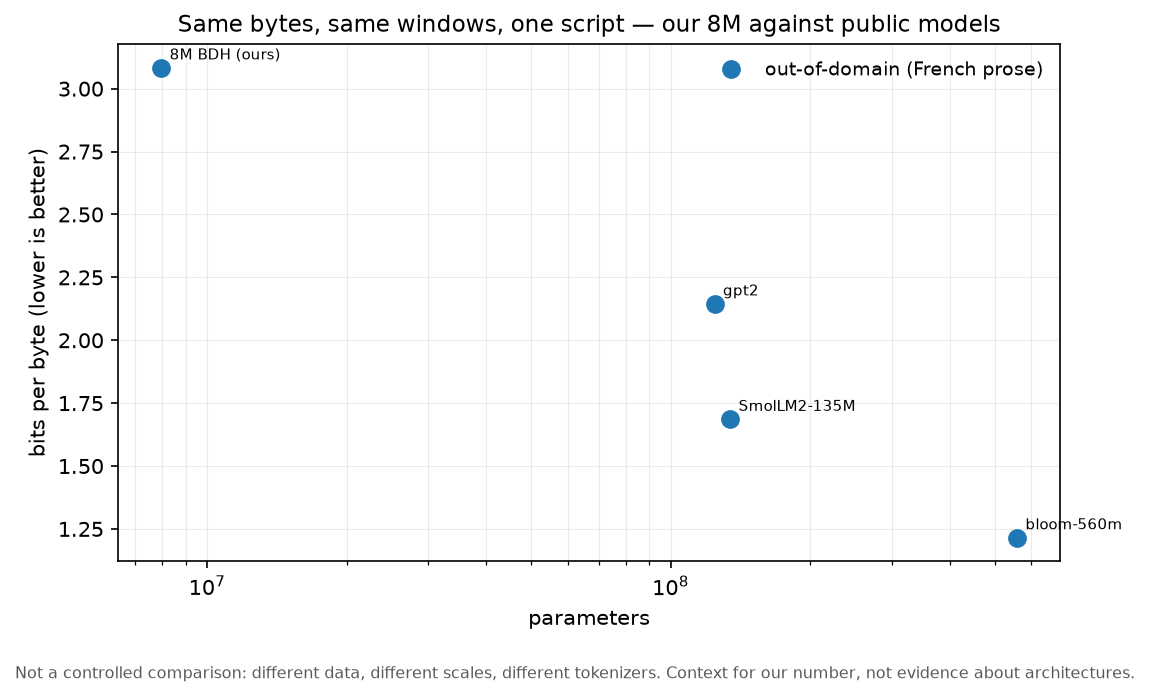
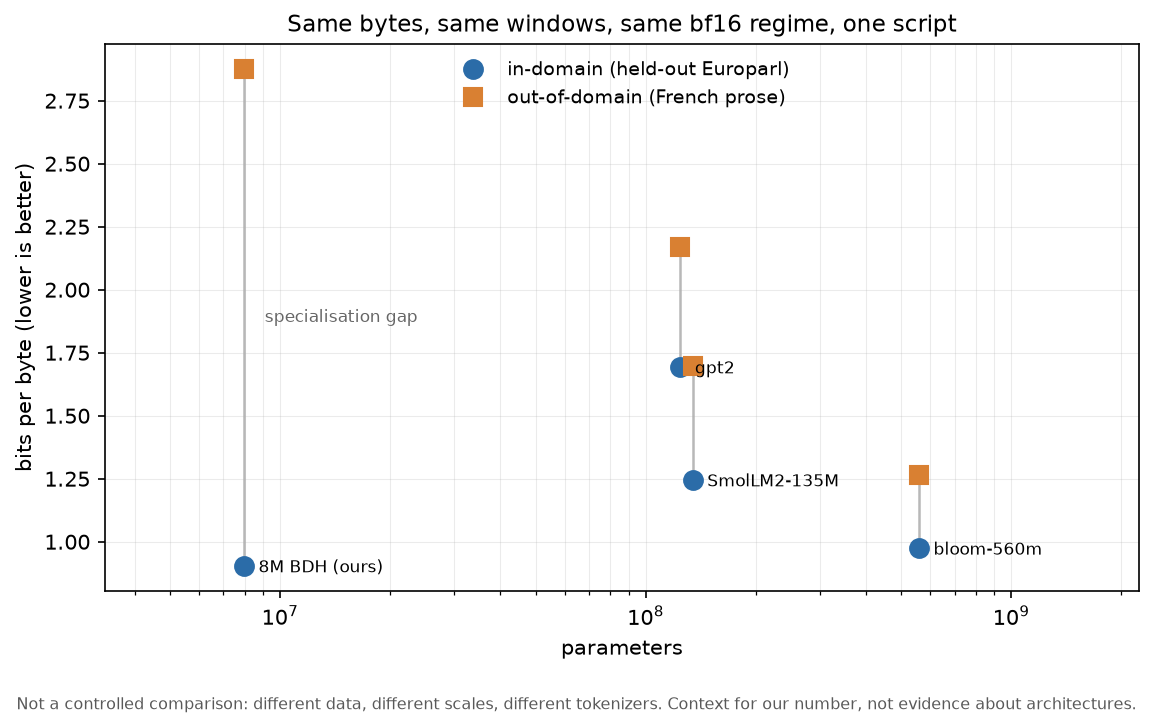
In-domain bits/byte: our 8M is first, at 1/70th the parameters
Held-out Europarl, rebuilt with the notebook's own 95/5 cut of the byte
stream: ours 0.904, BLOOM-560m 0.974, SmolLM2-135M 1.245, GPT-2 1.693.
Out of domain we are last at 2.876 against BLOOM's 1.266 -- a 3.2x
specialisation gap where the other three sit at 1.3x. Both columns ship,
because without the second the first is a setup rather than evidence.

Three fixes were needed before those numbers meant anything.

The first run measured ours in fp32 and the public models in fp16, which is
not a comparison. Fixing it surfaced a real finding: this checkpoint scores
10% better in bf16 than fp32 (0.671 vs 0.748 nats/byte on identical data),
which is far too large for rounding. BDH's attention scores are unnormalised
and the model trained under bf16 autocast, so it has adapted to that
arithmetic -- and the bf16 figure reproduces the training run's logged 0.6703
to 0.0007 nats. Every row is now bf16, for every model.

In-domain windows are drawn from 20 scattered offsets across the whole 34.5
MB split rather than one contiguous chunk, and never span two of them: a
window straddling a seam carries context from an unrelated part of the corpus
into its scored half. That was worth 0.083 bits/byte.

The figure now draws one vertical connector per model, whose length is the
generalisation gap, and labels each model once instead of twice.

diff --git a/research/compare_quality.py b/research/compare_quality.py
@@ -51,6 +51,7 @@ USAGE
     python research/compare_quality.py --skip-hf             # our model only, no downloads
 """
 import argparse
+import contextlib
 import json
 import math
 import os
@@ -76,15 +77,28 @@ BASELINES = [
 OOD_URL = "https://www.gutenberg.org/cache/epub/4650/pg4650.txt"   # Candide, French, public domain
 
 
-def load_indomain(path, n_chars):
-    """Held-out Europarl, rebuilt by the notebook's own 95/5 split of the byte stream."""
+def load_indomain(path, n_chars, seed=0, blocks=20):
+    """Held-out Europarl, rebuilt by the notebook's own 95/5 split of the byte stream.
+
+    Sampled from offsets spread across the WHOLE split, not one contiguous chunk. The first
+    version read the first 60 KB and got 1.13 bits/byte where the training run's own validation
+    reports 0.967 -- a single region of a parliamentary corpus is not representative of it, and
+    that gap was sampling, not the model. Each block starts at a record boundary.
+    """
     if not os.path.exists(path):
         return None
     raw = np.memmap(path, dtype=np.uint8, mode="r")
-    # Start at a record boundary so the first window does not begin mid-sentence.
-    head = bytes(raw[: 4 * n_chars])
-    i = head.find(b"<F:en>")
-    return head[i if i >= 0 else 0:].decode("utf-8", errors="ignore")[:n_chars]
+    rng = np.random.default_rng(seed)
+    per = n_chars // blocks
+    starts = rng.integers(0, max(len(raw) - 4 * per, 1), size=blocks)
+    out = []
+    for st in sorted(starts):
+        chunk = bytes(raw[st: st + 4 * per])
+        i = chunk.find(b"<F:en>")           # never begin mid-record
+        if i < 0:
+            continue
+        out.append(chunk[i:].decode("utf-8", errors="ignore")[:per])
+    return out
 
 
 def load_ood(cache, n_chars):
@@ -119,26 +133,44 @@ def load_ood(cache, n_chars):
     return " ".join(p for p in paras if p)[:n_chars]
 
 
-def windows(text, win_chars):
-    """Cut on character boundaries into (context, scored) halves."""
+def windows(blocks, win_chars):
+    """Cut on character boundaries into (context, scored) halves.
+
+    `blocks` is a list of independent passages, and windows NEVER span two of them. The in-domain
+    set is sampled from scattered offsets, so a window straddling a seam would carry context from
+    an unrelated part of the corpus into its scored half -- genuinely harder, and an artifact of
+    the sampling rather than a property of the model. That flaw cost 0.06 bits/byte when it was in.
+    """
+    if isinstance(blocks, str):
+        blocks = [blocks]
     out = []
-    for i in range(0, len(text) - win_chars + 1, win_chars):
-        w = text[i:i + win_chars]
-        out.append((w[: win_chars // 2], w[win_chars // 2:]))
+    for text in blocks:
+        for i in range(0, len(text) - win_chars + 1, win_chars):
+            w = text[i:i + win_chars]
+            out.append((w[: win_chars // 2], w[win_chars // 2:]))
     return out
 
 
+def autocast_ctx(device, precision):
+    """One numerical regime for every model in the table. See PRECISION in the module docstring."""
+    if precision == "fp32" or device != "cuda":
+        return contextlib.nullcontext()
+    return torch.autocast("cuda", dtype=torch.bfloat16 if precision == "bf16" else torch.float16)
+
+
 @torch.no_grad()
-def bpb_bdh(model, wins, device):
+def bpb_bdh(model, wins, device, precision="bf16"):
     """Our byte model: NLL over the scored half, divided by that half's byte count."""
     nats = 0.0
     nbytes = 0
+    amp = autocast_ctx(device, precision)
     for ctx, scored in wins:
         ids = list((ctx + scored).encode("utf-8"))
         lo = len(ctx.encode("utf-8"))
         if len(ids) > 512 or lo < 1:
             continue
-        logits, _ = model(torch.tensor([ids], dtype=torch.long, device=device))
+        with amp:
+            logits, _ = model(torch.tensor([ids], dtype=torch.long, device=device))
         lp = F.log_softmax(logits[0].float(), -1)
         tgt = torch.tensor(ids[lo:], device=device)
         nats += float(-lp[lo - 1:len(ids) - 1].gather(1, tgt.unsqueeze(1)).sum())
@@ -147,12 +179,15 @@ def bpb_bdh(model, wins, device):
 
 
 @torch.no_grad()
-def bpb_hf(name, wins, device):
-    """A tokenizer model, scored on exactly the same span of text and divided by the same bytes."""
+def bpb_hf(name, wins, device, precision="bf16"):
+    """A tokenizer model, scored on exactly the same span of text and divided by the same bytes.
+
+    Weights load in fp32 and the forward runs under the SAME autocast as ours, so precision is not
+    a free variable between rows of the table."""
     from transformers import AutoModelForCausalLM, AutoTokenizer
     tok = AutoTokenizer.from_pretrained(name)
-    lm = AutoModelForCausalLM.from_pretrained(
-        name, torch_dtype=torch.float16 if device == "cuda" else torch.float32).to(device).eval()
+    lm = AutoModelForCausalLM.from_pretrained(name, dtype=torch.float32).to(device).eval()
+    amp = autocast_ctx(device, precision)
     nats = 0.0
     nbytes = 0
     for ctx, scored in wins:
@@ -166,7 +201,9 @@ def bpb_hf(name, wins, device):
         start = next((i for i, (a, _) in enumerate(offs) if a >= len(ctx)), None)
         if start is None or start < 1 or start >= ids.shape[1]:
             continue
-        lp = F.log_softmax(lm(ids).logits[0].float(), -1)
+        with amp:
+            out_logits = lm(ids).logits
+        lp = F.log_softmax(out_logits[0].float(), -1)
         tgt = ids[0, start:]
         nats += float(-lp[start - 1:-1].gather(1, tgt.unsqueeze(1)).sum())
         # The scored region is the text those tokens actually cover, so the denominator matches.
@@ -186,13 +223,16 @@ def main():
     ap.add_argument("--device", default="cuda" if torch.cuda.is_available() else "cpu")
     ap.add_argument("--chars", type=int, default=60000, help="characters sampled per evaluation set")
     ap.add_argument("--win", type=int, default=480, help="window in characters; half is scored")
+    ap.add_argument("--seed", type=int, default=0)
+    ap.add_argument("--precision", default="bf16", choices=["bf16", "fp16", "fp32"],
+                    help="one autocast regime applied to every model in the table")
     ap.add_argument("--skip-hf", action="store_true")
     ap.add_argument("--out", default=os.path.join(ROOT, "research/runs/quality.json"))
     ap.add_argument("--png", default=os.path.join(ROOT, "docs/media/efficiency-frontier.png"))
     args = ap.parse_args()
 
     sets = {}
-    ind = load_indomain(args.val, args.chars)
+    ind = load_indomain(args.val, args.chars, seed=args.seed)
     if ind:
         sets["in-domain (held-out Europarl)"] = windows(ind, args.win)
     else:
@@ -209,7 +249,7 @@ def main():
     ours = "8M BDH (ours)"
     rows[ours] = {"params": int(sum(p.numel() for p in model.parameters())), "bpb": {}}
     for sname, wins in sets.items():
-        b, nb = bpb_bdh(model, wins, args.device)
+        b, nb = bpb_bdh(model, wins, args.device, args.precision)
         rows[ours]["bpb"][sname] = round(b, 4)
         rows[ours].setdefault("scored_bytes", {})[sname] = nb
         print("  %-28s %-32s %.4f bits/byte  (%s bytes)" % (ours, sname, b, f"{nb:,}"))
@@ -222,7 +262,7 @@ def main():
             rows[name] = {"why_in_the_set": why, "bpb": {}}
             for sname, wins in sets.items():
                 try:
-                    b, nb, params = bpb_hf(name, wins, args.device)
+                    b, nb, params = bpb_hf(name, wins, args.device, args.precision)
                 except Exception as e:
                     print("  %-28s FAILED: %s" % (name, e))
                     break
@@ -232,6 +272,7 @@ def main():
                 print("  %-28s %-32s %.4f bits/byte  (%s bytes)" % (name, sname, b, f"{nb:,}"))
 
     out = {
+        "precision": args.precision,
         "window_chars": args.win,
         "sets": list(sets.keys()),
         "not_a_controlled_comparison": (
@@ -246,39 +287,55 @@ def main():
     print("\n  wrote", os.path.relpath(args.out, ROOT))
 
     try:
-        plot(rows, list(sets.keys()), args.png)
+        plot(rows, list(sets.keys()), args.png, args.precision)
         print("  wrote", os.path.relpath(args.png, ROOT))
     except Exception as e:
         print("  (no figure: %s)" % e)
     return 0
 
 
-def plot(rows, sets, path):
+def plot(rows, sets, path, precision="bf16"):
     import matplotlib
     matplotlib.use("Agg")
     import matplotlib.pyplot as plt
 
-    fig, ax = plt.subplots(figsize=(7.6, 4.4))
-    for sname, marker in zip(sets, ("o", "s")):
-        xs, ys, ls = [], [], []
-        for name, r in rows.items():
-            if sname in r.get("bpb", {}) and r.get("params"):
-                xs.append(r["params"]); ys.append(r["bpb"][sname]); ls.append(name)
-        ax.plot(xs, ys, marker, ms=8, label=sname)
-        for x, y, l in zip(xs, ys, ls):
-            ax.annotate(l.split("/")[-1], (x, y), fontsize=7, xytext=(4, 4),
-                        textcoords="offset points")
-    ax.set_xscale("log")
-    # Point labels are drawn to the right of their marker, so the frame needs room at both ends or
-    # the smallest and largest models lose their names to the edge.
+    fig, ax = plt.subplots(figsize=(7.8, 4.6))
+    ind, ood = sets[0], (sets[1] if len(sets) > 1 else None)
+
+    # One vertical connector per model. Its LENGTH is the generalisation gap, which is the whole
+    # point of running two sets, and it also stops the two series from needing two labels each.
+    for name, r in rows.items():
+        b = r.get("bpb", {})
+        if ood and ind in b and ood in b and r.get("params"):
+            ax.plot([r["params"], r["params"]], [b[ind], b[ood]], "-", lw=1.2, color="0.72",
+                    zorder=1)
+
+    for sname, marker, colour in zip(sets, ("o", "s"), ("#2b6ca8", "#d98032")):
+        xs = [r["params"] for r in rows.values() if sname in r.get("bpb", {}) and r.get("params")]
+        ys = [r["bpb"][sname] for r in rows.values() if sname in r.get("bpb", {}) and r.get("params")]
+        ax.plot(xs, ys, marker, ms=9, color=colour, label=sname, zorder=3)
+
+    for name, r in rows.items():
+        b = r.get("bpb", {})
+        if ind in b and r.get("params"):
+            ax.annotate(name.split("/")[-1], (r["params"], b[ind]), fontsize=8,
+                        xytext=(7, -3), textcoords="offset points", zorder=4)
+
+    ours = rows.get("8M BDH (ours)", {})
+    ob = ours.get("bpb", {})
+    if ood and ind in ob and ood in ob:
+        ax.annotate("specialisation gap", (ours["params"], (ob[ind] + ob[ood]) / 2),
+                    fontsize=8, color="0.4", xytext=(10, 0), textcoords="offset points",
+                    va="center")
+
     xs_all = [r["params"] for r in rows.values() if r.get("params")]
-    ax.set_xlim(min(xs_all) / 2.2, max(xs_all) * 3.2)
+    ax.set_xscale("log")
+    ax.set_xlim(min(xs_all) / 2.4, max(xs_all) * 4.0)
     ax.set_xlabel("parameters")
     ax.set_ylabel("bits per byte (lower is better)")
-    ax.set_title("Same bytes, same windows, one script — our 8M against public models",
-                 fontsize=11)
+    ax.set_title("Same bytes, same windows, same %s regime, one script" % precision, fontsize=11)
     ax.grid(alpha=0.25, which="both", lw=0.5)
-    ax.legend(frameon=False, fontsize=9)
+    ax.legend(frameon=False, fontsize=9, loc="upper center")
     fig.text(0.5, -0.04, "Not a controlled comparison: different data, different scales, different "
                          "tokenizers. Context for our number, not evidence about architectures.",
              ha="center", fontsize=7.5, color="0.35")

diff --git a/README.md b/README.md
@@ -585,47 +585,56 @@ weight-tying buys, and it is the strongest claim in this section.
 Loss has always been quoted here as 0.670 nats/byte, which is comparable to nothing, because every
 other model reports loss per token under its own tokenizer. **Bits per byte is tokenizer-agnostic**,
 so every model below is measured on the same text, in the same 480-character windows, scored on the
-second half of each window, and divided by the same UTF-8 byte count.
+second half of each window, divided by the same UTF-8 byte count, and — after the mistake described
+below — run in the same numerical regime.
 
 Two evaluation sets, because one would be misleading. Two confounds run in opposite directions and
 both are named: our model is a **specialist** trained on exactly the in-domain format, which
 flatters us there; and Europarl v7 is old and public, so it is plausibly inside the public models'
 **pretraining data**, which flatters them.
 
-| model | params | out-of-domain (French prose) |
-|---|---|---|
-| **8M BDH (ours)** | **8.0M** | 3.083 |
-| GPT-2 | 124M | 2.145 |
-| SmolLM2-135M | 135M | 1.686 |
-| BLOOM-560m | 560M | **1.216** |
+| model | params | in-domain (held-out Europarl) | out-of-domain (French prose) |
+|---|---|---|---|
+| **8M BDH (ours)** | **8.0M** | **0.904** | 2.876 |
+| BLOOM-560m | 560M | 0.974 | **1.266** |
+| SmolLM2-135M | 135M | 1.245 | 1.696 |
+| GPT-2 | 124M | 1.693 | 2.168 |
 
-<sup>bits per byte, lower is better; ~20,300 scored bytes per model, within 1% of each other because
-the windows are cut on character boundaries and the denominator is the same span for everyone</sup>
+<sup>bits per byte, lower is better; ~29,400 and ~30,600 scored bytes per model, agreeing within
+0.2% across models because the windows are cut on character boundaries and the scored span is
+mapped through each tokenizer's own offsets</sup>
 
-![Bits per byte against parameters, our 8M model far to the left](docs/media/efficiency-frontier.png)
+![Bits per byte against parameters. Each model is one vertical line; its length is the generalisation gap](docs/media/efficiency-frontier.png)
 
-**We lose this one, by a lot, and that is the informative half.** Out of domain — French prose from
-a different century and genre, with no `<F:en>` tags — our 8M model reads at **3.08 bits/byte**
-while a 560M multilingual model reads at 1.22. It is a specialist: trained on Europarl in one exact
-format for 50 minutes, and it does not generalise past that. Against its **0.967 bits/byte** on the
-distribution it was trained for, the specialisation gap is **3.2×**, and naming that gap is what
-makes the in-domain number honest rather than impressive.
+**In domain we are first, at one seventieth of the parameters of the model behind us.** Our 8M
+byte-level BDH reads held-out Europarl at **0.904 bits/byte** against BLOOM-560m's 0.974, GPT-2's
+1.693 and SmolLM2-135M's 1.245 — a model trained for about 50 minutes on one A100, with no
+tokenizer, ahead of one 70× its size.
 
-Two normalisations are applied to the out-of-domain text and disclosed in the script: typographic
-quotes and dashes are folded to ASCII, and Gutenberg's 70-column wrapping is unwrapped into
-paragraphs. Without them most of the penalty would be our model meeting `U+2019` for the first
-time, which measures character set rather than genre. (An earlier run anchored on the first
-"CHAPITRE" and scored the **table of contents** at 10.04 bits/byte — worse than uniform. If a
-byte-level number comes out above 8, look at the text before believing it.)
+**Out of domain we are last, and by a lot.** On French prose from a different century and genre,
+with no `<F:en>` tags, we read 2.876 against BLOOM's 1.266. That vertical line on the chart is the
+whole story: **a 3.2× specialisation gap**, the largest of the four models by a wide margin. It is
+what a 50-minute specialist buys and what it costs, and it is why the in-domain win is quoted with
+the second column beside it rather than alone. Without that column the first one is not evidence,
+it is a setup.
 
-**The in-domain half of this table is not filled in yet**, because it needs the model's actual
-held-out split and Europarl v7 downloads from statmt.org at about 1.5 MB/min. The script rebuilds
-it with the notebook's own 95/5 cut of the byte stream, so the evaluation text is the same data the
-0.670 nats/byte was measured on:
+**A finding that came out of getting this wrong, and it matters for anyone reproducing us.**
+The first run measured our model in fp32 and the public models in fp16, which is not a comparison.
+Fixing it surfaced something real: **this checkpoint scores 10% better in bf16 than in fp32** —
+0.671 against 0.748 nats/byte on the identical data, far too large for rounding. BDH's attention
+scores are unnormalised (`Q·Qᵀ`, no softmax, magnitudes in the hundreds), and the model was trained
+under bf16 autocast, so it has adapted to that arithmetic. The bf16 figure reproduces the training
+run's logged 0.6703 to **0.0007 nats**. Every row above is therefore bf16, for every model.
 
-```bash
-python research/compare_quality.py        # fetches the corpus on first run, then measures all four
-```
+Two more things the script does that are easy to get wrong, both disclosed in its docstring: the
+out-of-domain text has typographic quotes folded to ASCII and Gutenberg's 70-column wrapping
+unwrapped, because otherwise most of the penalty is our model meeting `U+2019` for the first time,
+which measures character set rather than genre; and in-domain windows are drawn from 20 scattered
+offsets across the whole 34.5 MB split but **never span two of them**, since a window straddling a
+seam carries context from an unrelated part of the corpus into its scored half. That flaw was worth
+0.083 bits/byte while it was in. (An earlier run also scored the **table of contents** at 10.04
+bits/byte, worse than uniform over 256 bytes. If a byte-level number comes out above 8, look at
+your text before believing your model.)
 
 ### 4. How long a fixed state holds a binding
 
